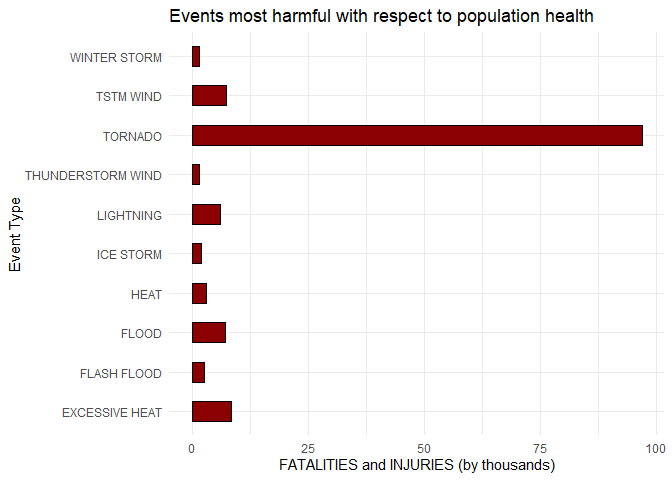
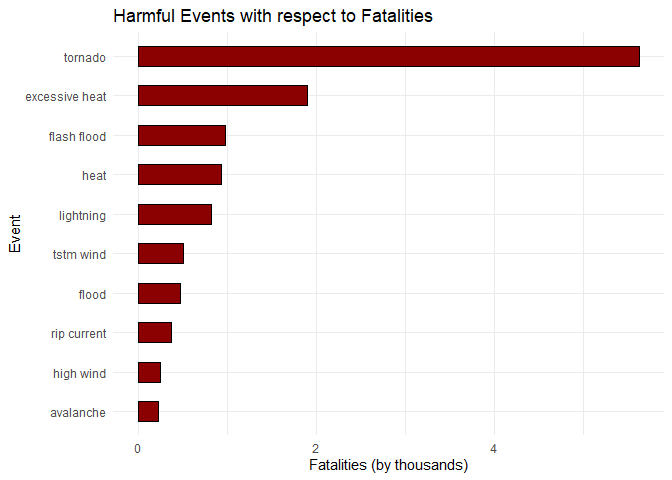
enhance plots

diff --git a/README.md b/README.md
@@ -68,21 +68,22 @@ levels(NOAASub$PROPDMGEXP)
 ##  [1] ""  "-" "?" "+" "0" "1" "2" "3" "4" "5" "6" "7" "8" "B" "h" "H" "K" "m" "M"
 ```
 Now create varible by assigning values of symbols as same order of union output each symbol has value.   
-"" ,"-" ,"?" ,"+" = 0 ,and the numeric's = 1 for "" tricky symbol will convert it to char later.    
+"" ,"-" ,"?" ,"+" = 0 ,and the numeric's 10 to the power of the value for "" tricky symbol will convert it to char later.    
 "K" for thousands,"M" for millions,"B" for billions, and "H" for hundreds ,then will name the varible elements as same order of union to map btween symbols and values.
 
 ```r
 NOAASub$PROPDMGEXP <- as.factor(toupper(NOAASub$PROPDMGEXP))
 NOAASub$CROPDMGEXP <- as.factor(toupper(NOAASub$CROPDMGEXP))
 NOAASub$EVTYPE <- as.factor(toupper(NOAASub$EVTYPE))
-decode <- c(rep(0,4),rep(1,9),10**12,100,10**3,10**6)
+decode <- c(rep(0,4),1,10,10**2,10**3,10**4,10**5,10**6,10**7,10**8,10**12
+            ,100,10**3,10**6)
 names(decode) <- as.factor(union(levels(NOAASub$PROPDMGEXP),levels(NOAASub$CROPDMGEXP)))
 decode
 ```
 
 ```
 ##           -     ?     +     0     1     2     3     4     5     6     7     8 
-## 0e+00 0e+00 0e+00 0e+00 1e+00 1e+00 1e+00 1e+00 1e+00 1e+00 1e+00 1e+00 1e+00 
+## 0e+00 0e+00 0e+00 0e+00 1e+00 1e+01 1e+02 1e+03 1e+04 1e+05 1e+06 1e+07 1e+08 
 ##     B     H     K     M 
 ## 1e+12 1e+02 1e+03 1e+06
 ```
@@ -136,6 +137,7 @@ Tthen sum the FATALITIES and INJURIES, to get which types of events harmful with
 And, also sum the crop damge and properties damge, to get which types of events have the greatest economic consequences 
 
 ```r
+NOAASub$EVTYPE <- as.factor(tolower(NOAASub$EVTYPE))
 NOAASub <- aggregate(.~EVTYPE, data =NOAASub, sum)
 NOAASub$HarmfulHealth <-rowSums(NOAASub[,c("FATALITIES","INJURIES")])
 NOAASub$HarmfulEconomic <-rowSums(NOAASub[,c("CROPDMG","PROPDMG")])
@@ -181,42 +183,73 @@ paste("Total crops damage cost around",round(CropDmg/10**12,2)," billion US doll
 ```
      
 ### Events harmful with respect to population health.
+Plot the top 10 event responsible for Fatalities and which has maximum Fatalities.
 
 ```r
-TopHealthHarm <- arrange(NOAASub,HarmfulHealth) %>%
-                 subset(.,select = c(EVTYPE,HarmfulHealth))%>% `rownames<-`(.,NULL) %>%
+TopFATALITIES <- subset(NOAASub,select = c(EVTYPE,FATALITIES))%>% 
                  top_n(.,10) 
 ```
 
 ```
-## Selecting by HarmfulHealth
+## Selecting by FATALITIES
 ```
 
 ```r
-g<-ggplot(TopHealthHarm , aes(x=EVTYPE, y= HarmfulHealth/10**3)) 
+g<-ggplot(TopFATALITIES, aes(x=reorder(EVTYPE,FATALITIES), y= FATALITIES/10**3)) 
 (g + geom_bar(stat="identity",width=0.5, color="black", fill="red4")
    + coord_flip()
-   + labs(title = "Events most harmful with respect to population health") 
-   + labs(x = "Event Type", y = "FATALITIES and INJURIES (by thousands)")
-   + theme_minimal()    )
+   + labs(title = "Harmful Events with respect to Fatalities") 
+   + labs(x = "Event", y = "Fatalities (by thousands)")
+   + theme_minimal()  )
 ```
 
 ![](RmarkdownRm_files/figure-html/unnamed-chunk-14-1.png)<!-- -->
 
 ```r
-toph <- TopHealthHarm[which.max(TopHealthHarm$HarmfulHealth),]
-paste(toph[[1]],"'s are the most harmful with respect to population health on ",round(toph[2]/10**3,4)," thousands citizen",sep = "")
+toph <- TopFATALITIES[which.max(TopFATALITIES$FATALITIES),]
+paste("The Most FATALITIES caused by",toph[[1]],"near",round(toph[2]/10**3,4),"thousand citizen")
 ```
 
 ```
-## [1] "TORNADO's are the most harmful with respect to population health on 96.979 thousands citizen"
+## [1] "The Most FATALITIES caused by tornado near 5.633 thousand citizen"
+```
+
+Plot the top 10 event responsible for Injuries and which has maximum Injuries.
+
+```r
+TopINJURIES <- subset(NOAASub,select = c(EVTYPE,INJURIES))  %>% 
+               top_n(.,10) 
+```
+
+```
+## Selecting by INJURIES
+```
+
+```r
+g<-ggplot(TopINJURIES , aes(x=reorder(EVTYPE,INJURIES), y= INJURIES/10**3)) 
+(g + geom_bar(stat="identity",width=0.5, color="black", fill="firebrick3")
+    + coord_flip()
+    + labs(title = "Harmful Events with respect to Injuries") 
+    + labs(x = "Event", y = " Injuries (by thousands)")
+    + theme_minimal()  )
+```
+
+![](RmarkdownRm_files/figure-html/unnamed-chunk-15-1.png)<!-- -->
+
+```r
+toph <- TopINJURIES[which.max(TopINJURIES$INJURIES),]
+paste("The Most INJURIES caused by",toph[[1]],"near",round(toph[2]/10**3,4),"thousand citizen")
+```
+
+```
+## [1] "The Most INJURIES caused by tornado near 91.346 thousand citizen"
 ```
             
 ### Types of events have the greatest economic consequences
+Plot the top 10 event responsible for economic damage and which has maximum economic damage.
 
 ```r
-TopEconHarm <- arrange(NOAASub,HarmfulEconomic) %>%
-               subset(.,select = c(EVTYPE,HarmfulEconomic)) %>%
+TopEconHarm <- subset(NOAASub,select = c(EVTYPE,HarmfulEconomic))%>% 
                top_n(.,10)
 ```
 
@@ -225,22 +258,23 @@ TopEconHarm <- arrange(NOAASub,HarmfulEconomic) %>%
 ```
 
 ```r
-p<-ggplot(TopEconHarm , aes(x=as.factor(EVTYPE), y= (HarmfulEconomic/10**12))) 
+p<-ggplot(TopEconHarm , aes(x=reorder(EVTYPE,HarmfulEconomic), y= (HarmfulEconomic/10**12))) 
 (p + geom_bar(stat="identity",width=0.5,color="black", fill="blue3")
    + coord_flip()
-   + labs(title = "Events have the greatest economic consequences ") 
-   + labs(x = "Event Type", y = "economic cost by billions US dollar")
+   + labs(title = "Events have the greatest economic Cost ") 
+   + labs(x = "Event", y = "Cost by billion US dollar")
    + theme_minimal()  )
 ```
 
-![](RmarkdownRm_files/figure-html/unnamed-chunk-15-1.png)<!-- -->
+![](RmarkdownRm_files/figure-html/unnamed-chunk-16-1.png)<!-- -->
 
 ```r
 toph <- TopEconHarm[which.max(TopEconHarm$HarmfulEconomic),]
-paste(toph[[1]],"'s has the most greatest economic consequences near to  ",round(toph[2]/10**12,4)," billion US dollar",sep = "")
+paste("The Most economic damage caused by" , toph[[1]] ,"around" ,round(toph[2]/10**12,4) ,"billion US Dollar")
 ```
 
 ```
-## [1] "FLOOD's has the most greatest economic consequences near to  122.5278 billion US dollar"
+## [1] "The Most economic damage caused by flood around 122.5278 billion US Dollar"
 ```
+
 
